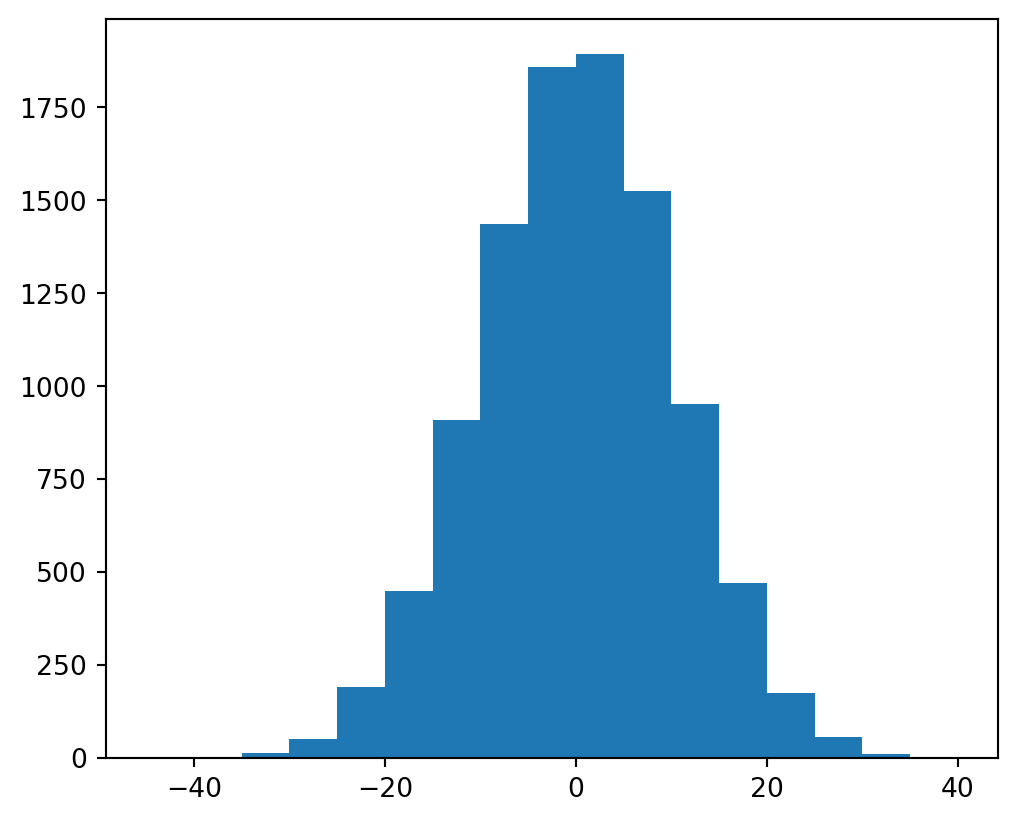
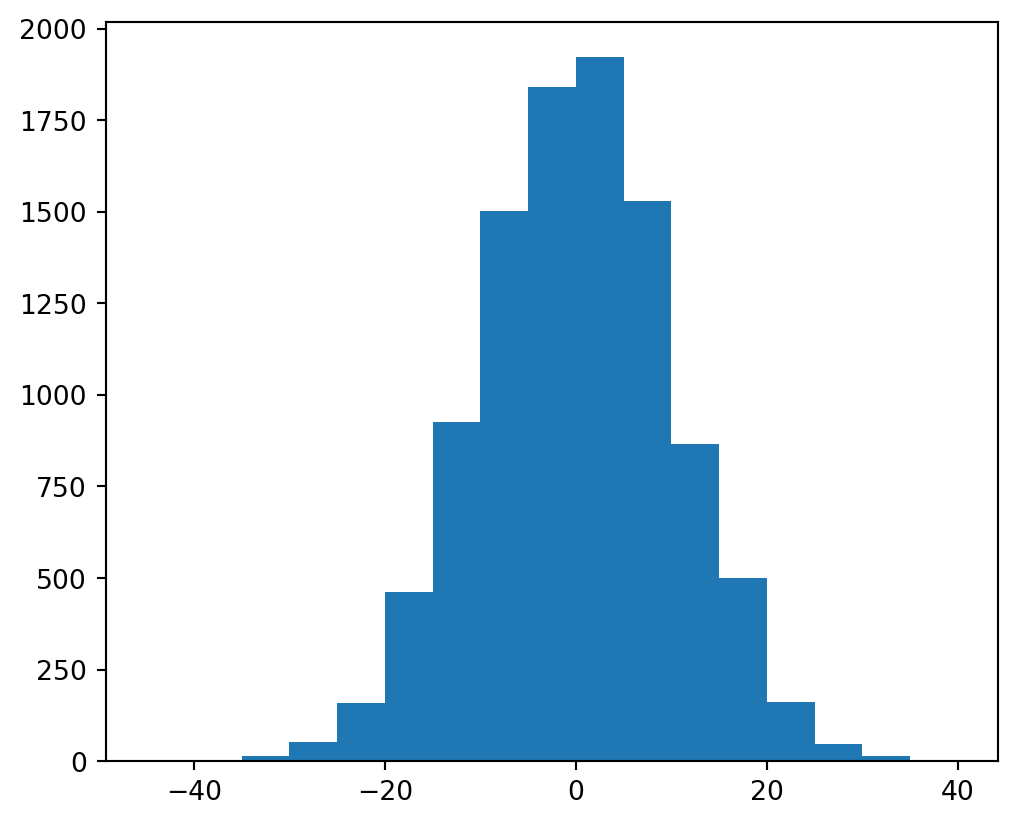
inference part B

diff --git a/c08_inferenceB/c08_inferenceB.html b/c08_inferenceB/c08_inferenceB.html
@@ -532,7 +532,7 @@
 <div class="sourceCode cell-code" id="cb2"><pre class="sourceCode python code-with-copy"><code class="sourceCode python"><span id="cb2-1"><a href="#cb2-1" aria-hidden="true" tabindex="-1"></a>plt.hist(null_mean_diffs, bins<span class="op">=</span>np.arange(<span class="op">-</span><span class="dv">45</span>, <span class="dv">45</span>, <span class="dv">5</span>))</span>
 <span id="cb2-2"><a href="#cb2-2" aria-hidden="true" tabindex="-1"></a>plt.show()</span></code><button title="Copy to Clipboard" class="code-copy-button"><i class="bi"></i></button></pre></div>
 <div class="cell-output cell-output-display">
-<p><img data-src="c08_inferenceB_files/figure-revealjs/cell-4-output-1.png" width="509" height="411"></p>
+<p><img data-src="c08_inferenceB_files/figure-revealjs/cell-4-output-1.png" width="509" height="413"></p>
 </div>
 </div>
 <div>
@@ -567,7 +567,7 @@
 </ul>
 <div class="fragment">
 <ul>
-<li>If <span class="math inline">\(\mu = 0\)</span> and <span class="math inline">\(\sigma = 1\)</span> (a.k.a the Standard Normal Distribution <span class="math inline">\(N(0, 1)\)</span>) it has the familiar form: <span class="math display">\[f(x) = \frac{1}{{\sqrt {2\pi}}}\exp(-\frac {x^2}{2})\]</span></li>
+<li>If <span class="math inline">\(\mu = 0\)</span> and <span class="math inline">\(\sigma = 1\)</span> (a.k.a the Standard Normal Distribution <span class="math inline">\(N(0, 1)\)</span>) it has the familiar form: <span class="math display">\[f(x) = \frac{1}{{\sqrt {2\pi}}}\exp(-\frac{x^2}{2})\]</span></li>
 </ul>
 <p>and the familiar bell shape around 0:</p>
 </div>
@@ -710,8 +710,8 @@
 <span id="cb5-4"><a href="#cb5-4" aria-hidden="true" tabindex="-1"></a><span class="bu">print</span>(<span class="ss">f'Mean of mean differences: </span><span class="sc">{</span>mu<span class="sc">: .2f}</span><span class="ss">'</span>)</span>
 <span id="cb5-5"><a href="#cb5-5" aria-hidden="true" tabindex="-1"></a><span class="bu">print</span>(<span class="ss">f'SD of mean differences: </span><span class="sc">{</span>sigma<span class="sc">: .2f}</span><span class="ss">'</span>)</span></code><button title="Copy to Clipboard" class="code-copy-button"><i class="bi"></i></button></pre></div>
 <div class="cell-output cell-output-stdout">
-<pre><code>Mean of mean differences:  0.13
-SD of mean differences:  10.23</code></pre>
+<pre><code>Mean of mean differences:  0.05
+SD of mean differences:  10.14</code></pre>
 </div>
 </div>
 <ul>
@@ -769,7 +769,7 @@ SD of mean differences:  10.23</code></pre>
 <div class="cell" data-execution_count="8">
 <div class="sourceCode cell-code" id="cb8"><pre class="sourceCode python code-with-copy"><code class="sourceCode python"><span id="cb8-1"><a href="#cb8-1" aria-hidden="true" tabindex="-1"></a><span class="bu">print</span>(<span class="ss">f'(</span><span class="sc">{</span>mu <span class="op">-</span> <span class="dv">2</span> <span class="op">*</span> sigma<span class="sc">: .2f}</span><span class="ss">, </span><span class="sc">{</span>mu <span class="op">+</span> <span class="dv">2</span> <span class="op">*</span> sigma<span class="sc">: .2f}</span><span class="ss">)'</span>)</span></code><button title="Copy to Clipboard" class="code-copy-button"><i class="bi"></i></button></pre></div>
 <div class="cell-output cell-output-stdout">
-<pre><code>(-20.32,  20.58)</code></pre>
+<pre><code>(-20.23,  20.33)</code></pre>
 </div>
 </div>
 <ul>
@@ -1336,7 +1336,7 @@ SD of mean differences:  10.23</code></pre>
 <p>We replace <span class="math inline">\(\sigma_x\)</span> by its estimator: <span class="math inline">\(S_x = \sqrt{\frac{1}{n_x - 1}\sum{(X_i - \overline{X})^2}}\)</span> and the same for <span class="math inline">\(\sigma_y\)</span>.</p>
 <p>We keep the SE estimator of <span class="math inline">\(\sqrt{\frac{S_x^2}{n_x} +\frac{S_y^2}{n_y}}\)</span>:</p>
 <p><span class="math inline">\(\frac{\overline{X} - \overline{Y} - (\mu_x- \mu_y)}{\sqrt{\frac{S_x^2}{n_x} +\frac{S_y^2}{n_y}}} \sim t_{df'}\)</span></p>
-<p>Where: <span class="math inline">\(df' ={\frac {\left({\frac {s_{1}^{2}}{n_{1}}}+{\frac {s_{2}^{2}}{n_{2}}}\right)^{2}}{{\frac {\left(s_{1}^{2}/n_{1}\right)^{2}}{n_{1}-1}}+{\frac {\left(s_{2}^{2}/n_{2}\right)^{2}}{n_{2}-1}}}}\)</span></p>
+<p>Where: <span class="math inline">\(df' ={\frac{\left({\frac{s_{1}^{2}}{n_{1}}}+{\frac{s_{2}^{2}}{n_{2}}}\right)^{2}}{{\frac{\left(s_{1}^{2}/n_{1}\right)^{2}}{n_{1}-1}}+{\frac{\left(s_{2}^{2}/n_{2}\right)^{2}}{n_{2}-1}}}}\)</span></p>
 <aside class="notes">
 <div style="direction:rtl; font-size:16px">
 
